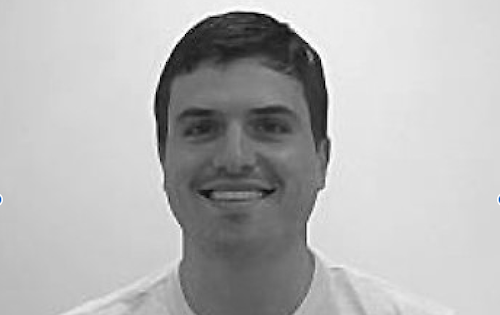
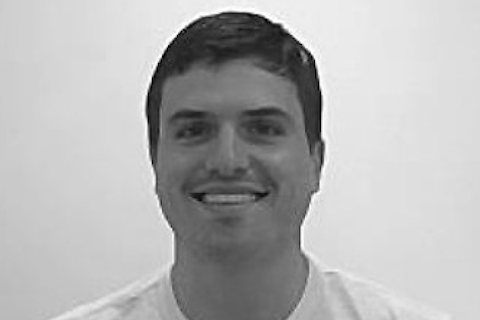
headshots

diff --git a/_src/html/mobileapps.html b/_src/html/mobileapps.html
@@ -1195,7 +1195,7 @@
 			      "picture": {
 			        "altText": "Summerville-Fye",
 			        "srcPath": "assets/images/profiles/generic-headshot-placeholder.jpg",
-			        "placeholderSize": "500 320"
+			        "placeholderSize": "500 330"
 			      }
 			    } %}
 			</div>
